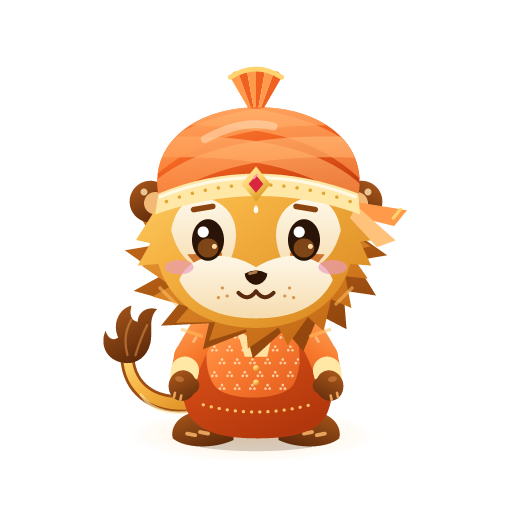
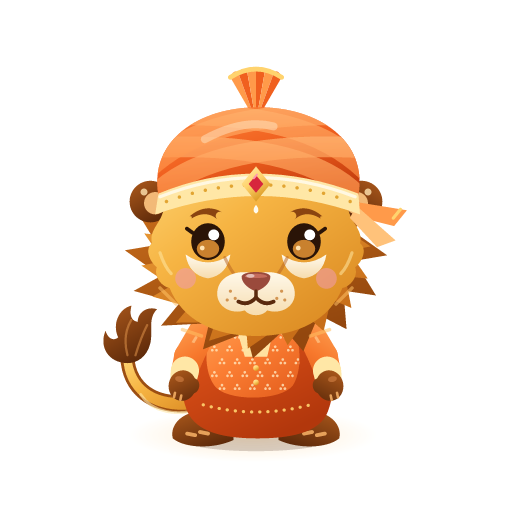
Give Kesar his own lion face, keep Pip's style
Broad rounded head, amber eyes, tufted brows, rosy nose, two-lobed
muzzle and a fanged grin, instead of Pip's exact face shapes.

Changed region(s): [[0.25, 0.375, 0.7188, 0.6562]]

diff --git a/src/mascot/rig.ts b/src/mascot/rig.ts
@@ -2,11 +2,11 @@
 // them. Plain data with no React, so the app (Kesar.tsx) and the preview
 // renderer (scripts/render-kesar.mjs) draw from exactly the same source.
 //
-// He's drawn the same way as Pip, the panda in FitPip: no outlines, soft
-// gradient shapes with a darker second colour for ears, paws and feet, bead
-// eyes with two highlights on light eye patches, short brow strokes, a band
-// with fluttering ties, and the same idle timing. Face shapes that are shared
-// with Pip are kept in Pip's coordinates and shifted into place with `pip()`.
+// He's drawn in the same style as Pip, the panda in FitPip: no outlines,
+// soft gradient shapes with a darker second colour for ears, paws and feet,
+// bead eyes with two highlights, brows that act, a band with fluttering ties,
+// and the same idle timing. His face is his own. A few body shapes borrowed
+// from Pip are kept in Pip's coordinates and shifted into place with `pip()`.
 //
 // Coordinates are a 260 x 260 design box; the ground line is y = 234.
 
@@ -244,44 +244,54 @@ const ear = `
   <circle cx="67" cy="87" r="7" fill="#F2B977"/>
   <circle cx="60" cy="80" r="2.2" fill="#FFE3B0" opacity=".8"/>`;
 
-// Pip's head shape, fluffy cheeks and all.
-const faceCoat = pip(`
-  <path d="M74 88c4-32 25-49 62-49s62 21 64 51l9 20-9 1 7 15-13-1c-7 25-31 40-59 40-31 0-54-15-61-40l-13 1 8-14-9-2Z" fill="url(#k-coat)"/>`);
+// His own face, drawn in Pip's manner: a broad lion head with soft cheek
+// fluff, round amber bead eyes, tufted brows, a two-lobed muzzle.
+const faceCoat = `
+  <path d="M72 92C72 62 98 46 130 46C162 46 188 62 188 92C190 100 197 104 195 112C200 116 196 124 192 127C194 133 189 139 184 140C176 160 156 170 130 170C104 170 84 160 76 140C71 139 66 133 68 127C64 124 60 116 65 112C63 104 70 100 72 92Z" fill="url(#k-coat)"/>
+  ${stroke('M70 118C72 124 74 128 77 131M190 118C188 124 186 128 183 131', '#FFE6A0', 2, 'opacity=".55"')}`;
 
-// Light fur round the eyes and on the muzzle, and a lion's tear marks.
-const patches = pip(`
-  <path d="M82 104c3-19 17-25 30-17 13 8 13 25 5 39-19 6-30-3-35-22ZM188 104c-3-19-17-25-30-17-13 8-13 25-5 39 19 6 30-3 35-22Z" fill="url(#k-cream)"/>
-  <path d="m92 119 22-1-5 22ZM178 119l-22-1 5 22Z" fill="#C8691C" opacity=".9"/>
-  <path d="M87 135c6-16 29-20 48-8 19-12 42-8 48 8-8 17-26 24-48 24s-40-7-48-24Z" fill="url(#k-cream)"/>`) +
-  dots([[109, 140], [112, 145], [106.5, 146], [151, 140], [148, 145], [153.5, 146]], 1, '#D39552');
+// Light fur under the eyes, a lion's tear lines, the puffy whisker pads.
+const patches = `
+  <path d="M86 119Q100 129 114 119Q112 132 100 134Q88 132 86 119ZM146 119Q160 129 174 119Q172 132 160 134Q148 132 146 119Z" fill="url(#k-cream)"/>
+  ${stroke('M110.5 121Q114 129 118.5 134M149.5 121Q146 129 141.5 134', '#B5601E', 2, 'opacity=".5"')}
+  <path d="M130 132C124 128 108 130 106 141C104 151 114 157 123 154C126 158 134 158 137 154C146 157 156 151 154 141C152 130 136 128 130 132Z" fill="url(#k-cream)"/>
+  ${dots([[114, 142], [117, 146.5], [112, 147.5], [146, 142], [143, 146.5], [148, 147.5]], 1, '#D39552')}`;
 
-const blush = pip(`<g fill="${BLUSH}" opacity=".65"><ellipse cx="87" cy="127" rx="9" ry="4.5"/><ellipse cx="183" cy="127" rx="9" ry="4.5"/></g>`);
-const blushHot = pip(`<g fill="${BLUSH}" opacity=".5"><ellipse cx="87" cy="127" rx="10" ry="5.5"/><ellipse cx="183" cy="127" rx="10" ry="5.5"/></g>`);
+const blush = `<g fill="#F09BB0" opacity=".55"><circle cx="86" cy="134" r="6.5"/><circle cx="174" cy="134" r="6.5"/></g>`;
+const blushHot = `<g fill="#F09BB0" opacity=".5"><circle cx="86" cy="134" r="8"/><circle cx="174" cy="134" r="8"/></g>`;
 
-const browL = pip(stroke('m96 91 12-2', BROW, 3.5));
-const browR = pip(stroke('m160 89 12 2', BROW, 3.5));
+// Tufted brows: thick at the inner end, tapering out.
+const browL = `<path d="${taper([107.5, 95], [102, 91], [95.5, 91], [89, 96], 5.4, 1.8)}" fill="${BROW}"/>`;
+const browR = mirror(browL);
 
-// Pip's bead eyes, in lion amber.
-const bead = (x: number) => `
-  <g transform="translate(${x} 110)">
-    <ellipse rx="10" ry="13" fill="${EYE}"/>
-    <ellipse cy="5" rx="6.5" ry="6" fill="#7E4517"/>
-    <circle cx="-3" cy="-5" r="3.5" fill="#fff"/>
-    <circle cx="4" cy="4" r="1.6" fill="#FFD9A0"/>
+// Round bead eyes with bright amber, highlight on the right, a lash flick.
+const bead = (x: number, outer: number) => `
+  <g transform="translate(${x} 111)">
+    <ellipse rx="10.5" ry="11.5" fill="${EYE}"/>
+    <ellipse cy="4.5" rx="7" ry="5.6" fill="#C9812E"/>
+    <circle cx="3.6" cy="-4.2" r="3.4" fill="#fff"/>
+    <circle cx="-3.6" cy="4" r="1.5" fill="#FFE2B0"/>
+    ${stroke(`M${outer * 9.6} -5.5l${outer * 3.6} -2.6`, EYE, 2.4)}
   </g>`;
 
-const happyEyes = pip(stroke('M95 114q10-15 20 0m40 0q10-15 20 0', EYE, 4.5));
-const closedEyes = pip(stroke('M96 113q9 8 18 0m42 0q9 8 18 0', EYE, 4));
+const happyEyes =
+  stroke('M90 115Q100 102 110 115M150 115Q160 102 170 115', EYE, 4.4) + stroke('M90 115l-3.4-2.2M170 115l3.4-2.2', EYE, 2.2);
+const closedEyes =
+  stroke('M91 112Q100 119 109 112M151 112Q160 119 169 112', EYE, 4) + stroke('M91 112l-3.2 1.4M169 112l3.2 1.4', EYE, 2);
 
-const nose = pip(`
-  <path d="M128 131q7-4 14 0c0 4-4 7-7 7s-7-3-7-7Z" fill="#2E1406"/>
-  ${stroke('m131 131 4-1', '#B07A4A', 1.8)}`);
-const mouthSmile = pip(stroke('M124 143q6 6 11-1 5 7 11 1', MOUTH, 2.5));
-const mouthOpen = pip(`
-  <path d="M123 142q12 6 24 0c-1 18-22 18-24 0Z" fill="#2E1206"/>
-  <path d="M127 151q8-7 16 0-8 8-16 0" fill="#F1A8BD"/>`);
-const mouthO = pip(`<ellipse cx="135" cy="146" rx="3.5" ry="4" fill="#4A200A"/>`);
-const mouthWavy = pip(stroke('M124 146q2.75-3 5.5 0t5.5 0t5.5 0t5.5 0', MOUTH, 2.4));
+// A broad, rosy lion nose and a Y-shaped mouth; the grin shows two little fangs.
+const nose = `
+  <path d="M121 133C121 129 139 129 139 133C139 137 134 141 130 142C126 141 121 137 121 133Z" fill="#9A4A3C"/>
+  <path d="M123 133C123 130.5 137 130.5 137 133C135 134 125 134 123 133Z" fill="#C46B5C"/>
+  <ellipse cx="126.5" cy="132.4" rx="2.6" ry="1.2" fill="#fff" opacity=".55"/>
+  ${stroke('M130 142V146', MOUTH, 2.2)}`;
+const mouthSmile = stroke('M130 146Q125 151.5 119 148.5M130 146Q135 151.5 141 148.5', MOUTH, 2.4);
+const mouthOpen = `
+  <path d="M118 147Q130 151 142 147Q140 163 130 163Q120 163 118 147Z" fill="#2E1206"/>
+  <path d="M123.5 157.5Q130 153 136.5 157.5Q134.5 162.5 130 162.5Q125.5 162.5 123.5 157.5Z" fill="#F1A8BD"/>
+  <path d="M121.4 148.2L125.6 149L123.6 153.2ZM138.6 148.2L134.4 149L136.4 153.2Z" fill="#FFFBF2"/>`;
+const mouthO = `<ellipse cx="130" cy="151" rx="4" ry="4.6" fill="#4A200A"/>`;
+const mouthWavy = stroke('M119 151q2.75-3 5.5 0t5.5 0t5.5 0t5.5 0', MOUTH, 2.4);
 
 // The pagdi: a wrapped dome above Pip's band, a diamond jewel, ties behind.
 function folds(): string {
@@ -415,22 +425,22 @@ export const RIG: RigNode = {
                 { id: 'patches', svg: patches },
                 { id: 'blush', svg: blush },
                 { id: 'blushHot', svg: blushHot, when: { effect: 'hearts' } },
-                { id: 'browL', pivot: [97, 90], svg: browL },
-                { id: 'browR', pivot: [161, 90], svg: browR },
+                { id: 'browL', pivot: [98, 93], svg: browL },
+                { id: 'browR', pivot: [162, 93], svg: browR },
                 {
                   id: 'gaze',
                   when: { eyes: ['open'] },
                   children: [
-                    { id: 'eyeL', pivot: [100, 110], svg: bead(100) },
-                    { id: 'eyeR', pivot: [160, 110], svg: bead(160) },
+                    { id: 'eyeL', pivot: [100, 111], svg: bead(100, -1) },
+                    { id: 'eyeR', pivot: [160, 111], svg: bead(160, 1) },
                   ],
                 },
                 { id: 'eyesHappy', svg: happyEyes, when: { eyes: ['happy'] } },
                 { id: 'eyesClosed', svg: closedEyes, when: { eyes: ['closed'] } },
                 { id: 'nose', svg: nose },
                 { id: 'mouthSmile', svg: mouthSmile, when: { mouth: ['smile'] } },
-                { id: 'mouthOpen', pivot: [130, 146], svg: mouthOpen, when: { mouth: ['open'] } },
-                { id: 'mouthO', pivot: [130, 146], svg: mouthO, when: { mouth: ['o'] } },
+                { id: 'mouthOpen', pivot: [130, 151], svg: mouthOpen, when: { mouth: ['open'] } },
+                { id: 'mouthO', pivot: [130, 151], svg: mouthO, when: { mouth: ['o'] } },
                 { id: 'mouthWavy', svg: mouthWavy, when: { mouth: ['wavy'] } },
               ],
             },

diff --git a/README.md b/README.md
@@ -91,7 +91,7 @@ Transliteration: a capital letter means a retroflex sound (Ta, Da, Na, La), and 
 
 ## Mascot
 
-Kesar is drawn the same way as Pip, the panda from my fitness app [FitPip](https://github.com/radhepa/FitPip): no outlines, soft two-tone shading, bead eyes with two highlights, short brow strokes, a band with fluttering ties, and the same idle timing. They're meant to look like they came from the same hand.
+Kesar is drawn in the same style as Pip, the panda from my fitness app [FitPip](https://github.com/radhepa/FitPip): no outlines, soft two-tone shading, bead eyes with two highlights, brows that do the acting, a band with fluttering ties, and the same idle timing. His face is his own (a broad lion head, rosy nose, little fangs when he grins), but the two should look like they came from the same hand.
 
 He's a layered SVG rig in the same spirit as a puppet: about 30 parts, each turning on its own joint (shoulder, elbow, neck, ears, tail and the tuft at its tip, the fan on his pagdi). Poses are data in `src/mascot/rig.ts`, keyframes with their own timing, so a clip can have a crouch before a jump, a squash on landing, and a tail that catches up a beat late. Arms are posed by saying where the paw should go; a two-bone solver works out the shoulder and elbow.
 
